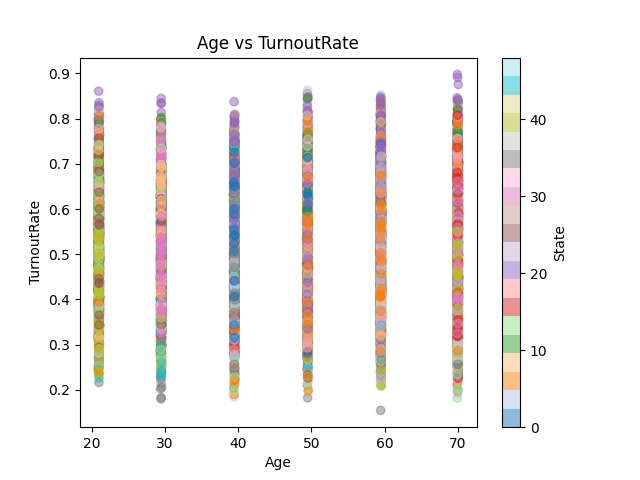
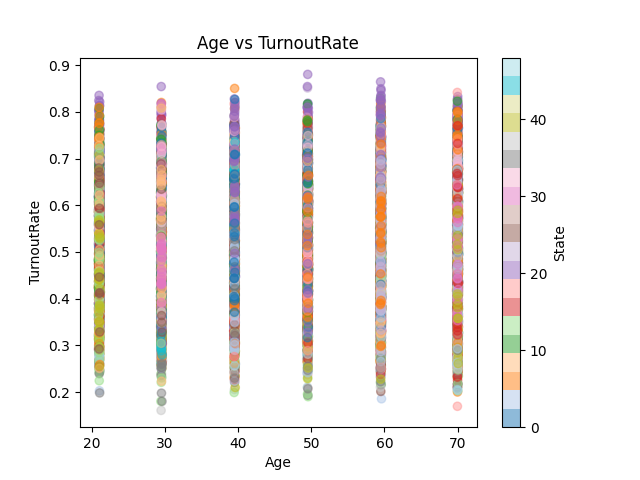
Added instructions for running the project in project_exploration.md file

diff --git a/project_exploration.md b/project_exploration.md
@@ -1,7 +1,8 @@
 #### File to document all progress, findings, and challenges faced. Essential to explain the choices made in data processing and visualization.
 
 ### Instructions on running this project : 
-Just run the wf_core.py file, it contains the subprocess to run both the wf_dataprocessing.py and then wf_visualization.py. A merged_data.db file will be generated which contains all the processed and cleaned data (this file can be viewed in the sqlite db browser). apart from that, the correlation.txt, summary.txt and the other processed data files get stored in the data_processed folder. And finally the visuals get stored inside the visuals folder. I will also be adding a video demo of mine showing the whole project run, where initially only the original data files, plus the .py files for core,dataprocessing and visualization are present and you can verify through the video that my code is actually producing those results that I will be providing.
+Just run the wf_core.py file (on terminal write python wf_core.py), it contains the subprocess to run both the wf_dataprocessing.py and then wf_visualization.py. A merged_data.db file will be generated which contains all the processed and cleaned data (this file can be viewed in the sqlite db browser). apart from that, the correlation.txt, summary.txt and the processed data files get stored in the data_processed folder. And finally the visuals get stored inside the visuals folder. I will also be adding a video demo of mine showing the whole project run, where initially only the original data files, plus the .py files for core,dataprocessing and visualization are present and you can verify through the video that my code is actually producing those results that I will be providing. 
+Just make sure that you have all the same versions of the python libraries as per defined in the requirements.txt file in order to run the project. Also if I do include a docker file having all the dependencies, then you can simply run that and it will automatically installall the dependencies in order to successfully run the project
 
 SERX94: Exploratory Data Munging and Visualization
 
